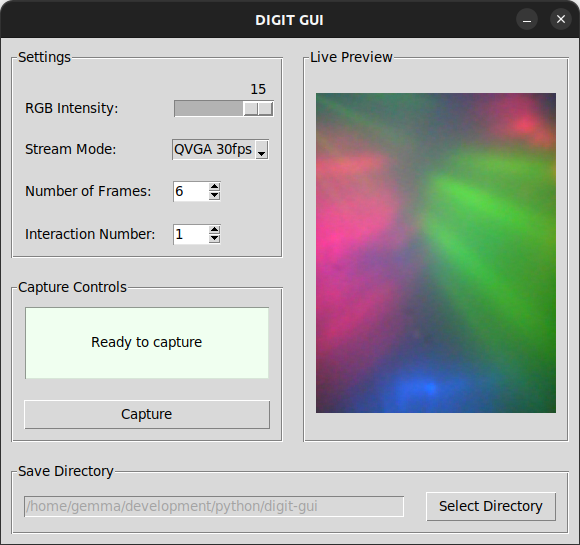
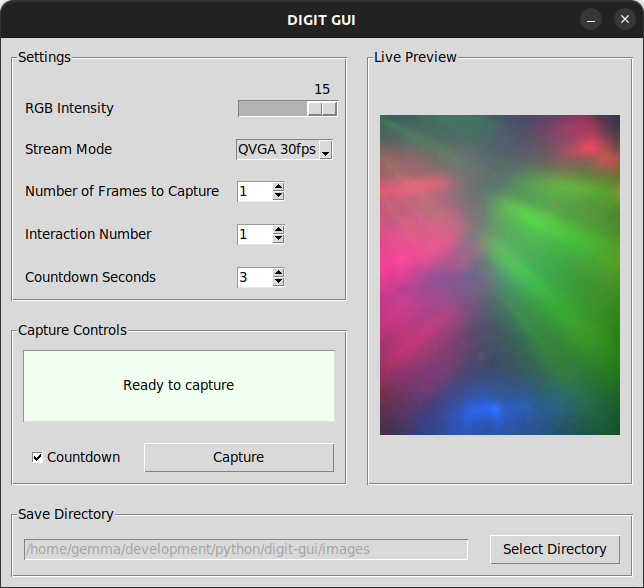
Added countdown option

Changed region(s): [[0.0, 0.0, 1.0, 0.9982], [0.9931, 0.0, 1.0, 0.0312]]

diff --git a/digit_gui.py b/digit_gui.py
@@ -20,6 +20,7 @@ GREEN = "honeydew"
 RED = "misty rose"
 MAX_NUM_FRAMES = 600
 MAX_INTERACTION_NUM = 9999
+MAX_COUNTDOWN_SECS = 10
 
 
 class DigitGUI:
@@ -45,6 +46,8 @@ class DigitGUI:
         self.save_dir = self.user_save_dir
         self.num_frames = 1
         self.interaction_num = 1
+        self.countdown_secs = 1
+        self.countdown = False
 
         # Set up the root window
         self.root.title("DIGIT GUI")
@@ -103,7 +106,7 @@ class DigitGUI:
 
         # --- RGB intensity components ---
         # Create the label
-        intensity_label = tk.Label(settings_frame, text="RGB Intensity:")
+        intensity_label = tk.Label(settings_frame, text="RGB Intensity")
 
         # Get the min and max intensity values from the DigitController
         min_intensity = self.dc.get_min_intensity()
@@ -127,7 +130,7 @@ class DigitGUI:
 
         # --- Stream mode components ---
         # Create the label
-        stream_label = tk.Label(settings_frame, text="Stream Mode:")
+        stream_label = tk.Label(settings_frame, text="Stream Mode")
 
         # Create the combobox with stream options from DigitController
         self.stream_combobox = ttk.Combobox(settings_frame,
@@ -154,7 +157,7 @@ class DigitGUI:
         # --- Number of frames components ---
         # Create label
         num_frames_label = tk.Label(settings_frame,
-                                    text="Number of Frames:")
+                                    text="Number of Frames to Capture")
 
         # Create the Spinbox to allow user to select number of frames
         num_frames_validator = (self.root.register(self.validate_num_frames), '%P')
@@ -170,7 +173,7 @@ class DigitGUI:
         # --- Interaction number components ---
         # Create label
         interaction_num_label = tk.Label(settings_frame,
-                                         text="Interaction Number:")
+                                         text="Interaction Number")
         # Create a Spinbox to allow user to select interaction number
         interaction_num_validator = (self.root.register(
             self.validate_interaction_num), '%P')
@@ -180,6 +183,22 @@ class DigitGUI:
             from_=1, to=MAX_INTERACTION_NUM,
             validate="key",
             validatecommand=interaction_num_validator
+        )
+        # ---------------------------------
+
+        # --- Countdown seconds components ---
+        # Create label
+        countdown_secs_label = tk.Label(settings_frame,
+                                        text="Countdown Seconds")
+        # Create a Spinbox to allow user to select interaction number
+        countdown_secs_validator = (self.root.register(
+            self.validate_countdown_secs), '%P')
+        self.countdown_secs_spinbox = tk.Spinbox(
+            settings_frame,
+            width=4,
+            from_=1, to=MAX_COUNTDOWN_SECS,
+            validate="key",
+            validatecommand=countdown_secs_validator
         )
         # ---------------------------------
 
@@ -200,6 +219,10 @@ class DigitGUI:
                                    padx=PADDING, pady=PADDING)
         self.interaction_num_spinbox.grid(row=3, column=1, sticky='w',
                                           padx=PADDING/2, pady=PADDING)
+        countdown_secs_label.grid(row=4, column=0, sticky='w',
+                                  padx=PADDING, pady=PADDING)
+        self.countdown_secs_spinbox.grid(row=4, column=1, sticky='w',
+                                         padx=PADDING/2, pady=PADDING)
 
         # Return the settings frame to be placed in the main GUI
         return settings_frame
@@ -252,9 +275,21 @@ class DigitGUI:
                                      text="Capture",
                                      command=self.start_capture)
 
+        # Create a checkbox to enable countdown before capturing
+        # Create a BooleanVar to track countdown checkbox state
+        self.countdown_var = tk.BooleanVar(value=False)
+        # Update the countdown attribute when the checkbox is toggled
+        self.countdown_checkbox = tk.Checkbutton(
+            capture_controls_frame,
+            text="Countdown",
+            variable=self.countdown_var,
+            command=lambda: setattr(self, 'countdown', self.countdown_var.get())
+        )
+
         # Pack the frames and elements into the capture controls frame with padding
-        self.capture_status_label.pack(pady=PADDING, padx=PADDING)
-        # Ensure button fills the width
+        self.capture_status_label.pack(pady=PADDING, padx=PADDING, fill='x')
+        self.countdown_checkbox.pack(side=tk.LEFT, pady=PADDING, padx=PADDING, anchor='w')
+        # Ensure button fills the remaining width
         self.save_button.pack(pady=PADDING, padx=PADDING, fill='x')
 
         # Return the capture controls frame to be placed in the main GUI
@@ -368,6 +403,7 @@ class DigitGUI:
         self.save_button.configure(state="normal")
         self.num_frames_spinbox.configure(state="normal")
         self.interaction_num_spinbox.configure(state="normal")
+        self.countdown_secs_spinbox.configure(state="normal")
         self.save_dir_button.configure(state='normal')
 
     def disable_gui(self):
@@ -377,6 +413,7 @@ class DigitGUI:
         self.save_button.configure(state="disabled")
         self.num_frames_spinbox.configure(state="disabled")
         self.interaction_num_spinbox.configure(state="disabled")
+        self.countdown_secs_spinbox.configure(state="disabled")
         self.save_dir_button.configure(state='disabled')
 
     # --- Preferences ---
@@ -387,6 +424,8 @@ class DigitGUI:
             "stream_index": self.stream_combobox.current(),
             "num_frames": self.num_frames,
             "interaction_num": self.interaction_num,
+            "countdown_secs": self.countdown_secs,
+            "countdown": self.countdown,
             "user_save_dir": self.user_save_dir,
         }
         with open(USER_PREFS_FILE, "w") as f:
@@ -427,6 +466,14 @@ class DigitGUI:
             # Set the interaction number
             self.interaction_num = prefs["interaction_num"]
             self.refresh_interaction_num_spinbox()
+        if "countdown_secs" in prefs:
+            # Set the countdown seconds
+            self.countdown_secs = prefs["countdown_secs"]
+            self.refresh_countdown_secs_spinbox()
+        if "countdown" in prefs:
+            # Set the countdown toggle
+            self.countdown = prefs["countdown"]
+            self.countdown_var.set(self.countdown)
         if "user_save_dir" in prefs:
             # Set the user save directory
             self.user_save_dir = prefs["user_save_dir"]
@@ -560,6 +607,29 @@ class DigitGUI:
         # If not valid, return False
         return False
 
+    def validate_countdown_secs(self, value):
+        """
+        Validate the input for the countdown seconds spinbox and if valid, update the
+        countdown seconds.
+        Args:
+            value (str): The value to validate.
+        Returns:
+            bool: True if valid, False otherwise.
+        """
+        # Allow empty input for editing
+        if value == "":
+            return True
+        if value.isdigit():
+            # Convert the value to an integer
+            num = int(value)
+            # Check if the number is within the valid range
+            if 1 <= num <= MAX_COUNTDOWN_SECS:
+                # If valid, update the countdown seconds
+                self.countdown_secs = num
+                return True
+        # If not valid, return False
+        return False
+
     def refresh_num_frames_spinbox(self):
         """Refresh the number of frames spinbox with the current number of frames."""
         self.num_frames_spinbox.delete(0, "end")
@@ -569,6 +639,11 @@ class DigitGUI:
         """Refresh the interaction number spinbox with the current interaction number."""
         self.interaction_num_spinbox.delete(0, "end")
         self.interaction_num_spinbox.insert(0, self.interaction_num)
+
+    def refresh_countdown_secs_spinbox(self):
+        """Refresh the countdown seconds spinbox with the current countdown seconds."""
+        self.countdown_secs_spinbox.delete(0, "end")
+        self.countdown_secs_spinbox.insert(0, self.countdown_secs)
 
     # --- Capture Logic ---
     def start_capture(self):
@@ -587,11 +662,33 @@ class DigitGUI:
                 text="Capture failed:\nSave directory does not exist", bg=RED)
             # Reset after 2 seconds
             self.root.after(2000, self.capture_complete_final)
+        # If the save directory exists, proceed with capture
         else:
-            # If the save directory exists, proceed with capture
-            # Reset the frame count
+            # If countdown is enabled, start the countdown
+            if (self.countdown):
+                self.start_countdown(self.countdown_secs)
+            # If countdown is not enabled, start capturing immediately
+            else:
+                # Reset the frame count
+                self.frame_count = 0
+                # Set the capture flag to True so it starts capturing frames
+                self.capturing = True
+
+    def start_countdown(self, seconds):
+        """
+        Start a countdown timer for the specified number of seconds.
+        Args:
+            seconds (int): The number of seconds to count down from.
+        """
+        # Update the capture status label with the countdown
+        self.capture_status_label.config(
+            text=f"Capturing in {seconds} seconds...")
+        # If there are more than 0 seconds left, schedule the next countdown
+        if seconds > 0:
+            self.root.after(1000, lambda: self.start_countdown(seconds - 1))
+        else:
+            # When countdown reaches 0, start capturing frames
             self.frame_count = 0
-            # Set the capture flag to True so it starts capturing frames
             self.capturing = True
 
     def get_save_dir(self):

diff --git a/README.md b/README.md
@@ -8,6 +8,7 @@
 - Preview live tactile images in real time.
 - Select the number of frames and interaction number for organised data collection.
 - Choose and manage the save directory for captured images.
+- Set a countdown timer before capturing starts.
 - Capture and save single frames or batches of frames with a single click.
 - Automatically save and restore user preferences.
 
@@ -47,9 +48,10 @@
 Notes for usage:
 - Changes you make to settings will automatically be saved.
 - The default save directory is the local directory.
-- The maximum number of frames to capture at once is 600 (10 seconds at 60fps) but this can be changed in the code if you wish.
+- The maximum number of frames to capture at once is 600 (10 seconds at 60fps) (can be changed in the code if you wish).
 - The maximum interaction number is 9999.
 - The interaction number automatically increments after each capture, but can always be manually set as well.
+- The maximum number of seconds for the countdown timer is 10 (can be changed in the code if you wish).
 
 ## Known Issues
 - **VGA Mode Bug**:
